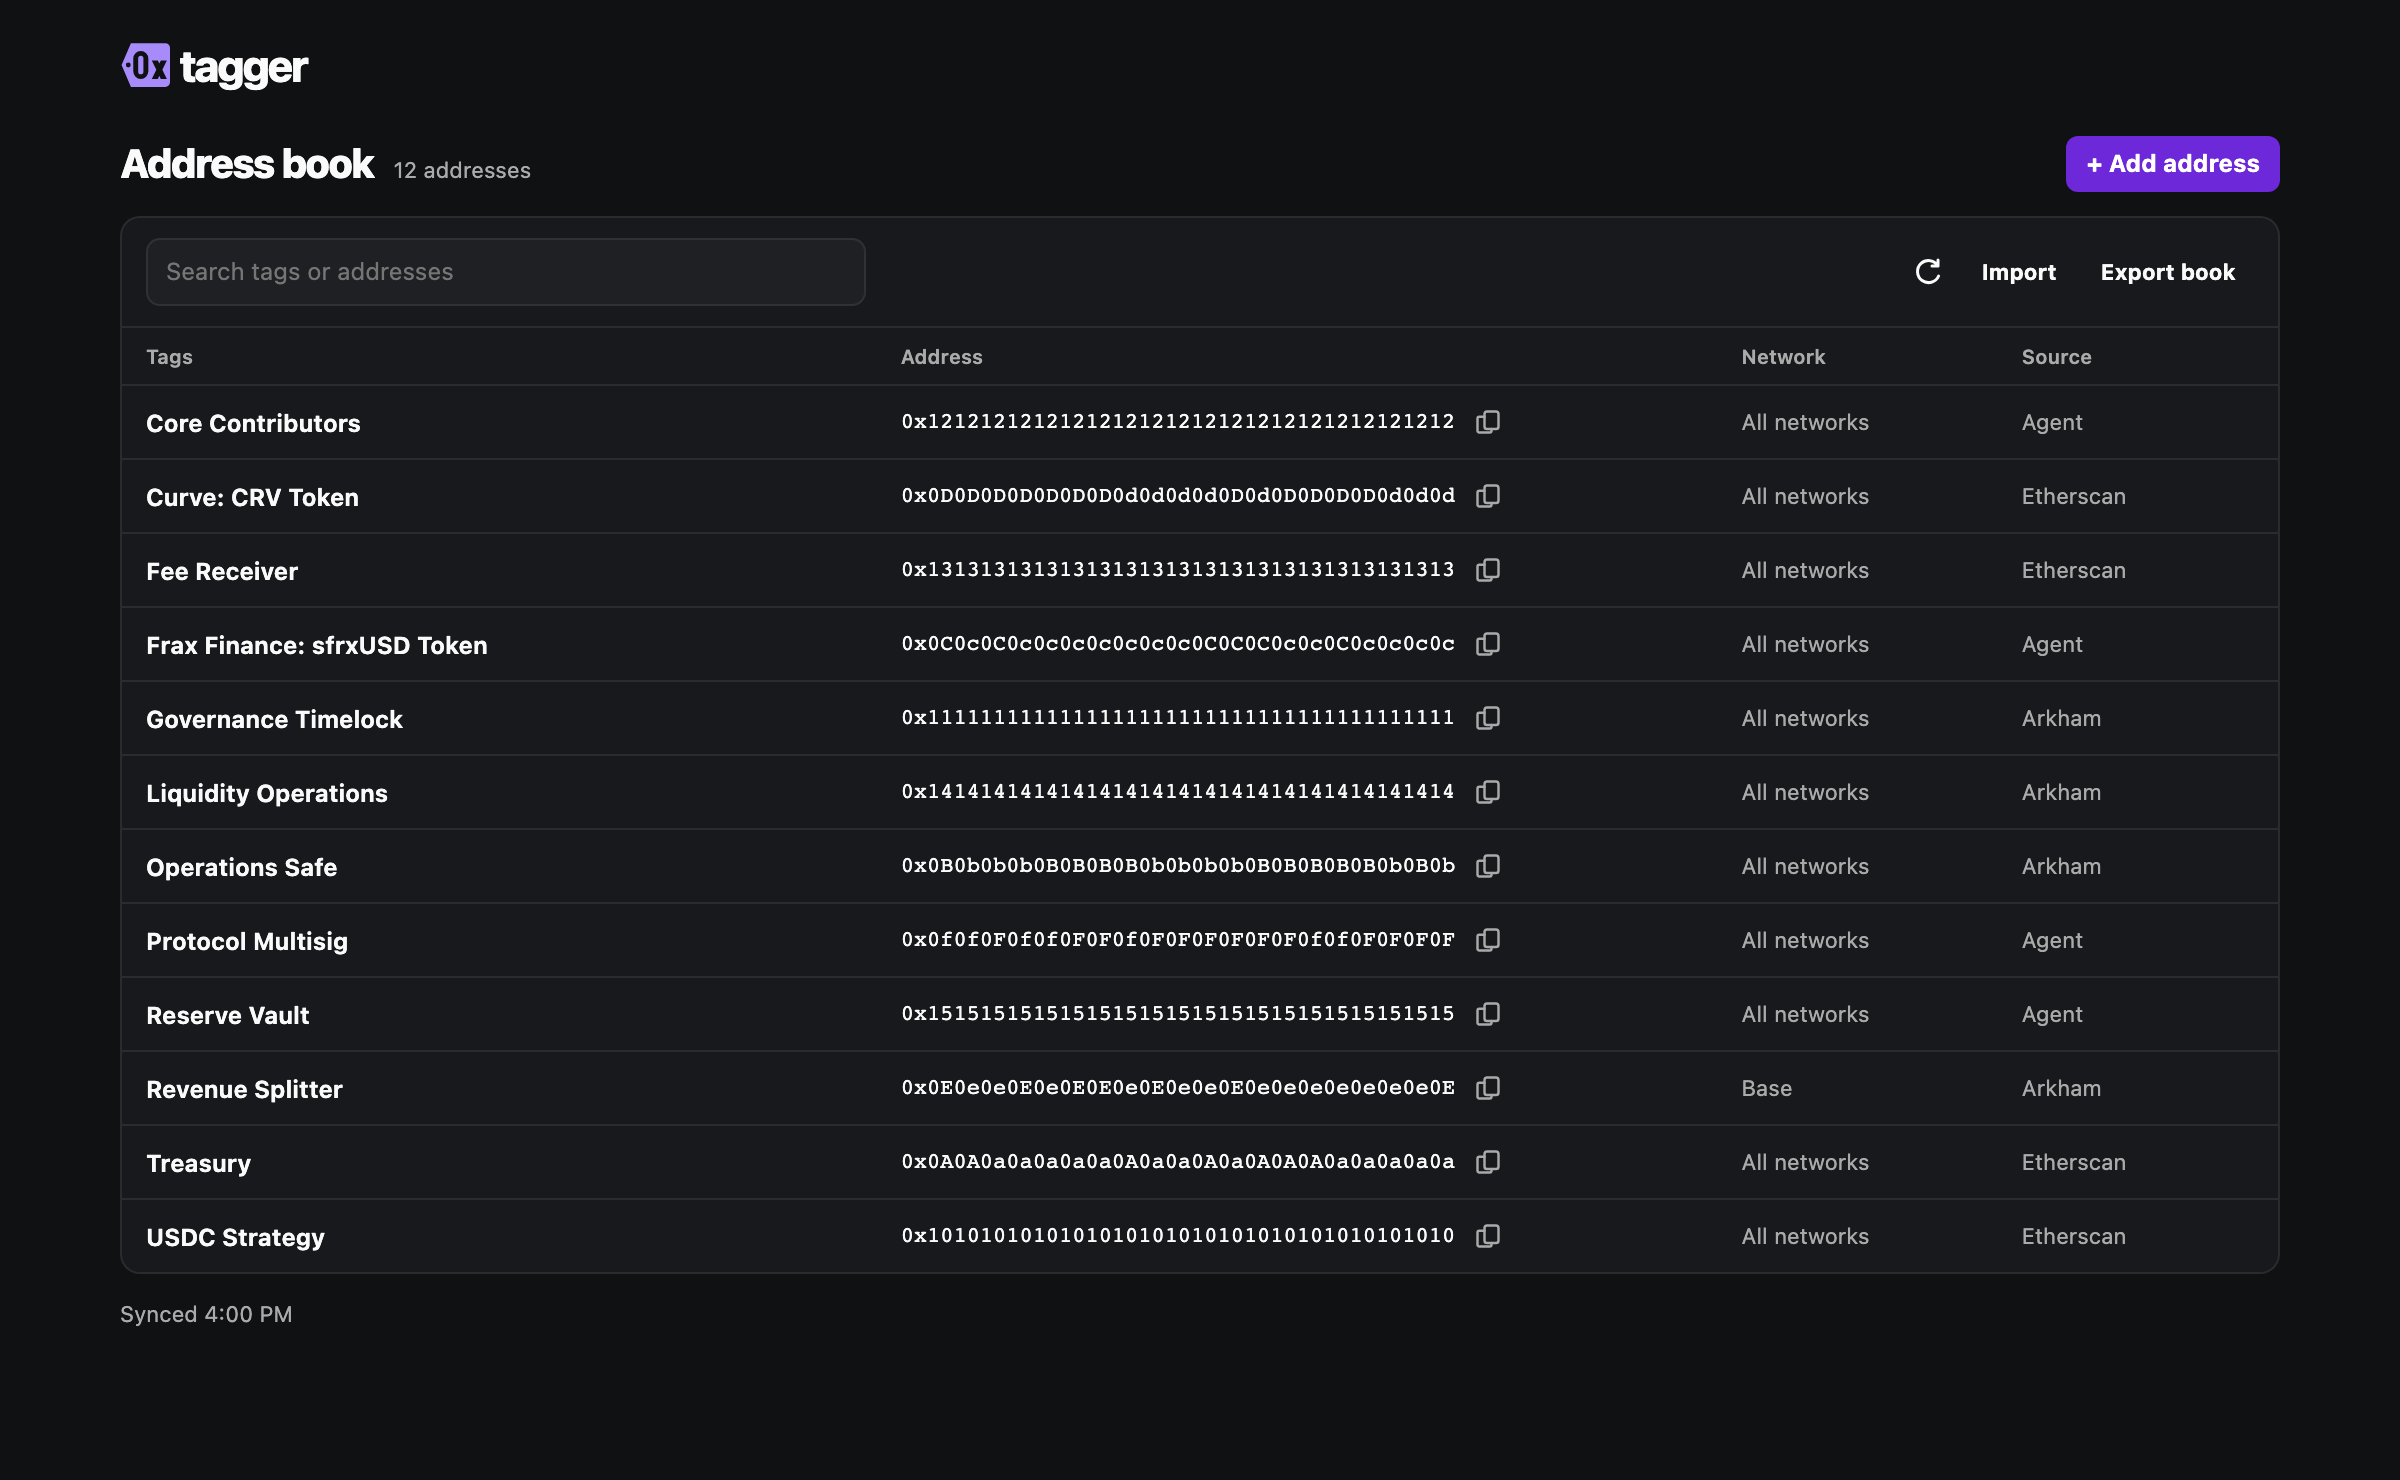
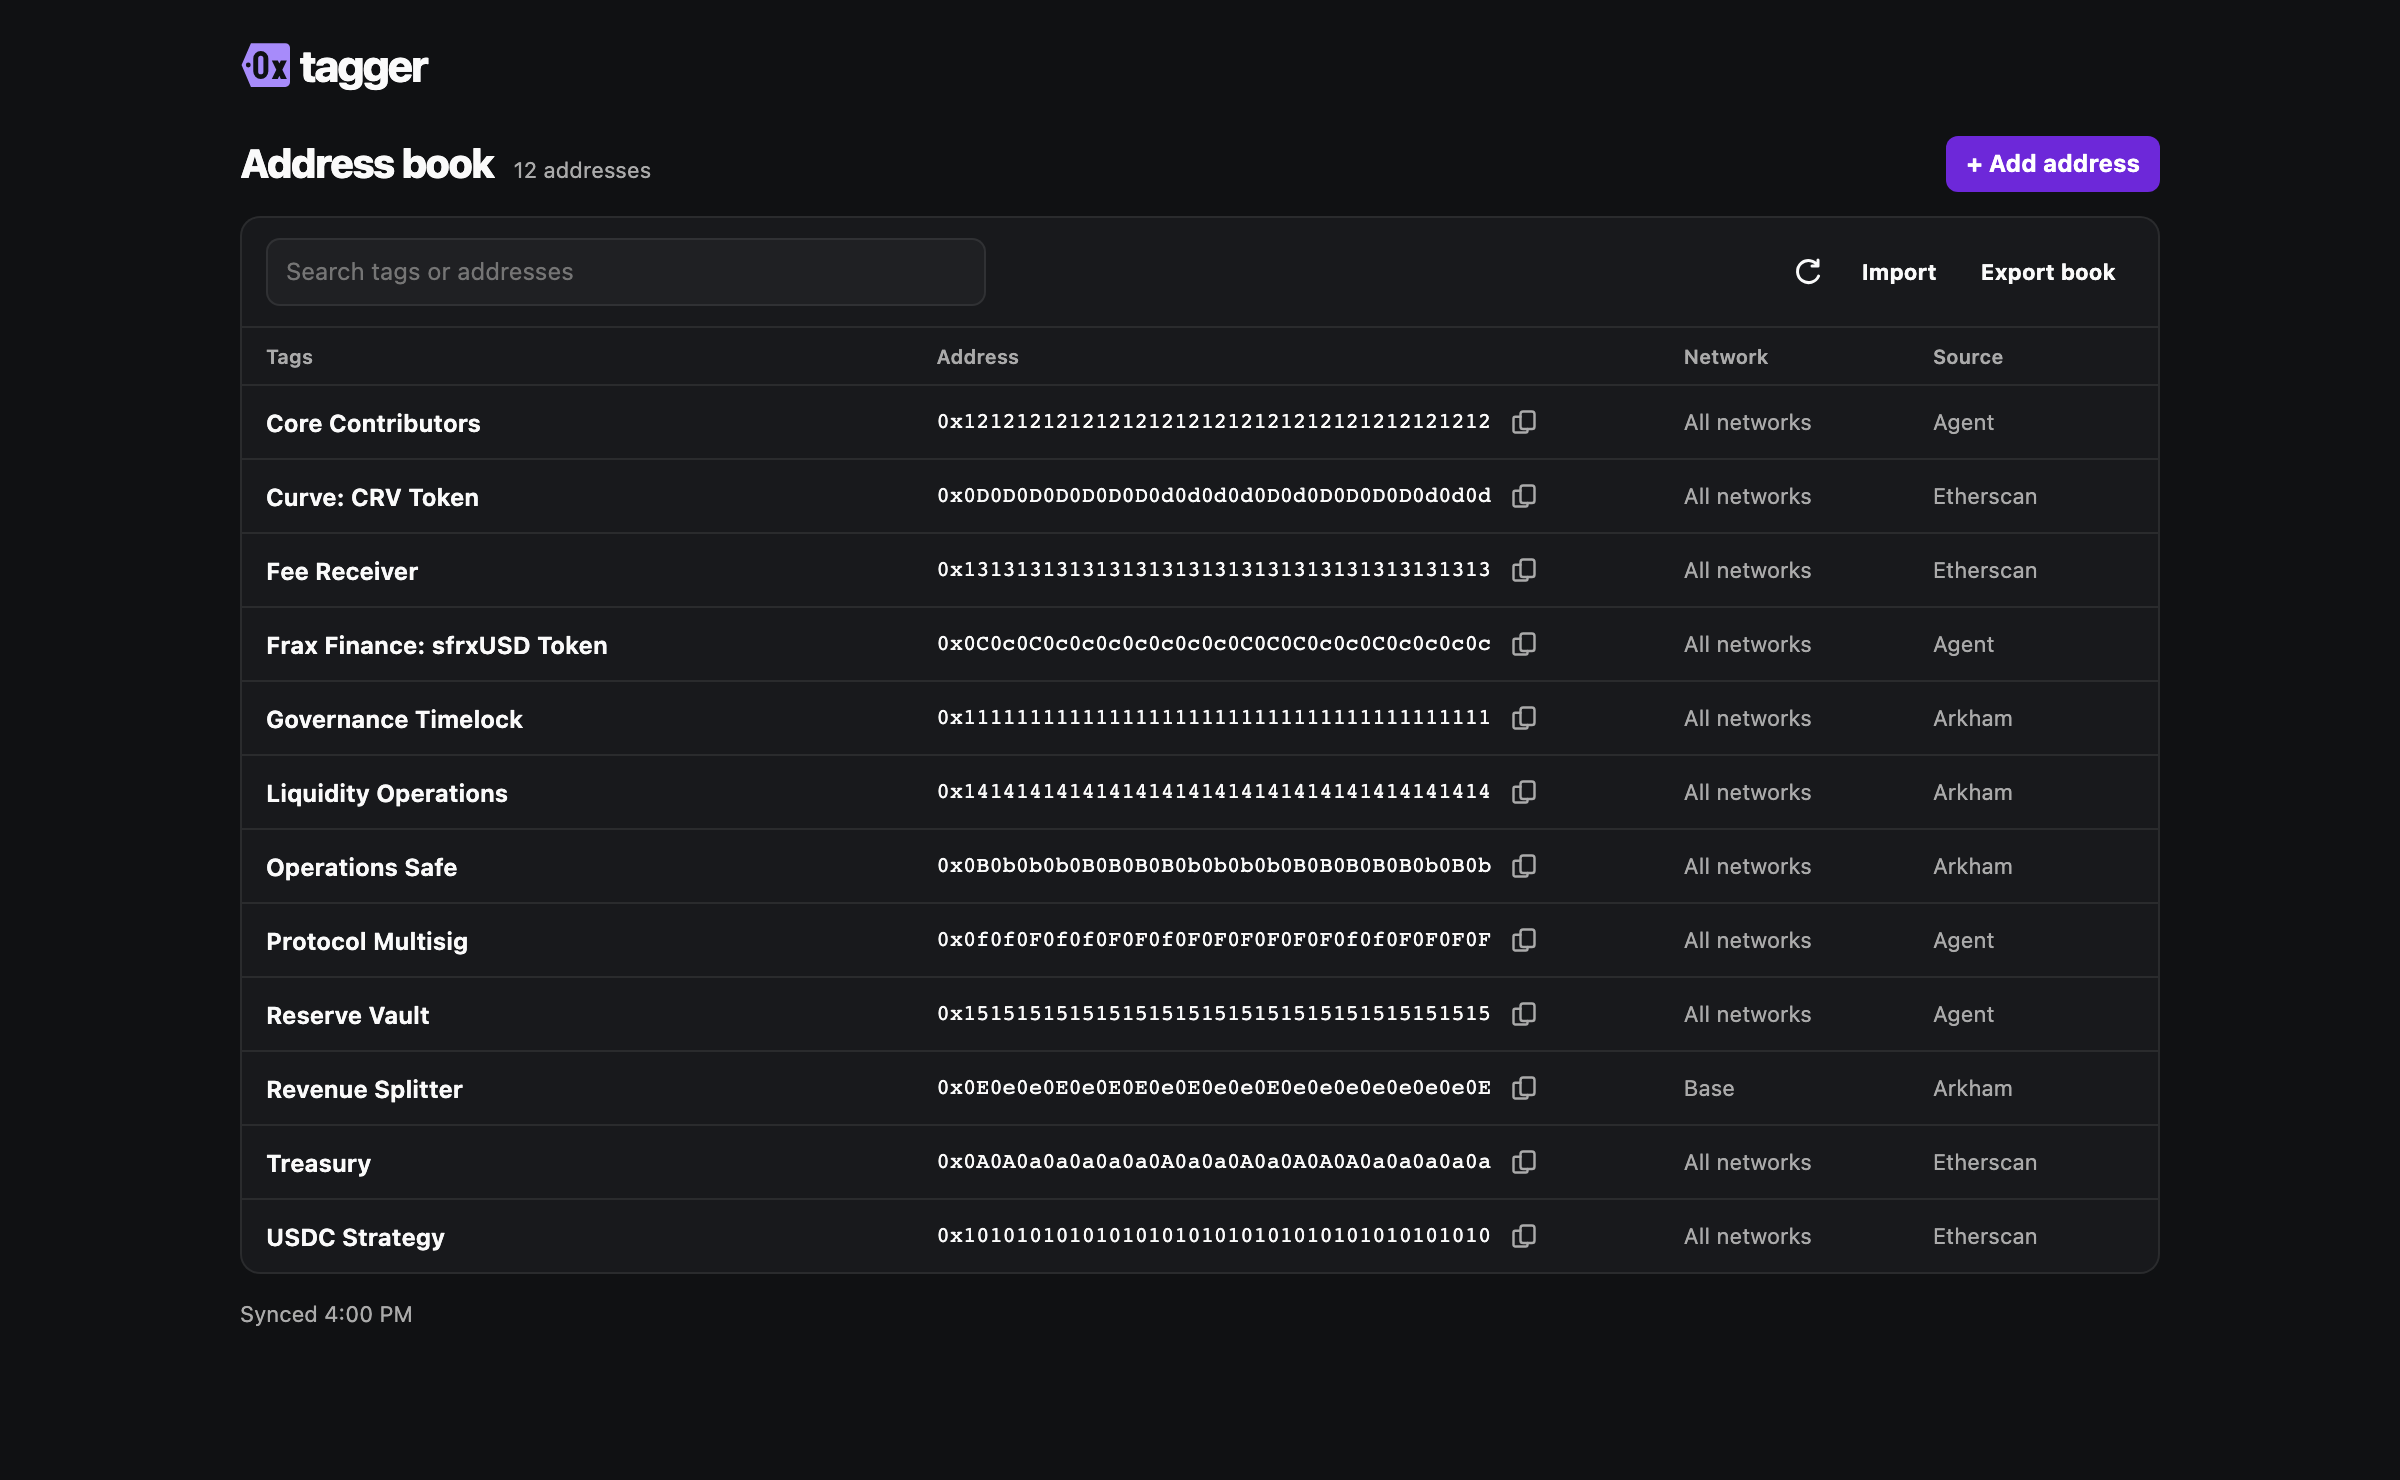
Narrow the address book to 960 pixels

diff --git a/extension/book.css b/extension/book.css
@@ -1,5 +1,5 @@
 body { background: var(--0xtagger-canvas); }
-.book { width: min(1080px, calc(100% - 40px)); margin: 0 auto; padding: 20px 0; }
+.book { width: min(960px, calc(100% - 40px)); margin: 0 auto; padding: 20px 0; }
 .book-header,.book-heading,.book-tools,.book-footer { display: flex; align-items: center; justify-content: space-between; gap: 16px; }
 .book-header { margin-bottom: 22px; }
 .book-header .brand { font-size: 22px; }
